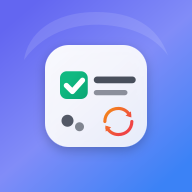
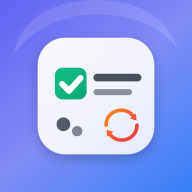
Updates

Changed region(s): [[0.1875, 0.1875, 0.8125, 0.8438], [0.2812, 0.5938, 0.4375, 0.7188]]

diff --git a/sw.js b/sw.js
@@ -1,1 +1,1 @@
-if(!self.define){let e,s={};const i=(i,n)=>(i=new URL(i+".js",n).href,s[i]||new Promise(s=>{if("document"in self){const e=document.createElement("script");e.src=i,e.onload=s,document.head.appendChild(e)}else e=i,importScripts(i),s()}).then(()=>{let e=s[i];if(!e)throw new Error(`Module ${i} didn’t register its module`);return e}));self.define=(n,r)=>{const c=e||("document"in self?document.currentScript.src:"")||location.href;if(s[c])return;let o={};const l=e=>i(e,c),a={module:{uri:c},exports:o,require:l};s[c]=Promise.all(n.map(e=>a[e]||l(e))).then(e=>(r(...e),o))}}define(["./workbox-7a79b53c"],function(e){"use strict";importScripts("/sw-custom.js"),self.skipWaiting(),e.clientsClaim(),e.precacheAndRoute([{url:"sw-custom.js",revision:"c27f6cc810250bb5c582c0267e3ca1bd"},{url:"registerSW.js",revision:"1872c500de691dce40960bb85481de07"},{url:"index.html",revision:"6e095ef1289768d650cae5fd4af76e5e"},{url:"icon.svg",revision:"604878bc41dc63db2944cc93656ae8b3"},{url:"icon-512.svg",revision:"604878bc41dc63db2944cc93656ae8b3"},{url:"icon-512.png",revision:"1708c47f33cce0c18729142e54aac744"},{url:"icon-192.svg",revision:"49081bbfc7e66f5dbdd0ab31d3d55c2f"},{url:"icon-192.png",revision:"fd24a0e5838227571e8a6b3b099d214d"},{url:"favicon.svg",revision:"e2850cac1b22e76745e684d2abdfedbd"},{url:"favicon.ico",revision:"49ac9f6e15999e26fc56103a8ba6c4f4"},{url:"assets/spaces-Dr5yf0Q9.js",revision:null},{url:"assets/materialdesignicons-webfont-Dp5v-WZN.woff2",revision:null},{url:"assets/index-Dr7tw_PP.css",revision:null},{url:"assets/index-D2XvMCja.js",revision:null},{url:"assets/SpaceSettingsView-awnOa9Vy.js",revision:null},{url:"assets/SpaceSettingsView-DHxyXu6S.css",revision:null},{url:"assets/SettingsViewNew-DLytROiE.js",revision:null},{url:"assets/SettingsViewNew-Cj4F3Bm_.css",revision:null},{url:"assets/RegisterView-CydeiSCL.js",revision:null},{url:"assets/LoginView-DGHKYVqh.js",revision:null},{url:"assets/HomeViewNew-DMuqcrYq.css",revision:null},{url:"assets/HomeViewNew-CpwsB-Oi.js",revision:null},{url:"assets/HistoryView-DwUC2mMG.js",revision:null},{url:"assets/HistoryView-BmwWLpZq.css",revision:null},{url:"assets/DashboardEnhanced-sc8wlgjz.js",revision:null},{url:"assets/DashboardEnhanced-DpdJx_fn.css",revision:null},{url:"favicon.ico",revision:"49ac9f6e15999e26fc56103a8ba6c4f4"},{url:"icon-192.svg",revision:"49081bbfc7e66f5dbdd0ab31d3d55c2f"},{url:"icon-512.svg",revision:"604878bc41dc63db2944cc93656ae8b3"},{url:"icon-192.png",revision:"fd24a0e5838227571e8a6b3b099d214d"},{url:"icon-512.png",revision:"1708c47f33cce0c18729142e54aac744"},{url:"manifest.webmanifest",revision:"c4bd127a61f516dc8b92a972de5fda15"}],{}),e.cleanupOutdatedCaches(),e.registerRoute(new e.NavigationRoute(e.createHandlerBoundToURL("index.html"))),e.registerRoute(/^https:\/\/tasks\.api\.michoest\.com\/api\//,new e.NetworkFirst({cacheName:"api-cache",plugins:[new e.ExpirationPlugin({maxEntries:50,maxAgeSeconds:300})]}),"GET")});
+if(!self.define){let e,s={};const i=(i,n)=>(i=new URL(i+".js",n).href,s[i]||new Promise(s=>{if("document"in self){const e=document.createElement("script");e.src=i,e.onload=s,document.head.appendChild(e)}else e=i,importScripts(i),s()}).then(()=>{let e=s[i];if(!e)throw new Error(`Module ${i} didn’t register its module`);return e}));self.define=(n,r)=>{const c=e||("document"in self?document.currentScript.src:"")||location.href;if(s[c])return;let o={};const l=e=>i(e,c),a={module:{uri:c},exports:o,require:l};s[c]=Promise.all(n.map(e=>a[e]||l(e))).then(e=>(r(...e),o))}}define(["./workbox-7a79b53c"],function(e){"use strict";importScripts("/sw-custom.js"),self.skipWaiting(),e.clientsClaim(),e.precacheAndRoute([{url:"sw-custom.js",revision:"c27f6cc810250bb5c582c0267e3ca1bd"},{url:"registerSW.js",revision:"1872c500de691dce40960bb85481de07"},{url:"index.html",revision:"6e095ef1289768d650cae5fd4af76e5e"},{url:"icon.svg",revision:"939337fa808daf1b8c9c28d17bbf788e"},{url:"icon-512.svg",revision:"939337fa808daf1b8c9c28d17bbf788e"},{url:"icon-512.png",revision:"9745c88ac3117eeffa02f4eeec29cee3"},{url:"icon-192.svg",revision:"bdba2bd0261222916987842baf45ba83"},{url:"icon-192.png",revision:"fed4e05b36cae020cb055c7481dd4189"},{url:"favicon.svg",revision:"e2850cac1b22e76745e684d2abdfedbd"},{url:"favicon.ico",revision:"49ac9f6e15999e26fc56103a8ba6c4f4"},{url:"assets/spaces-Dr5yf0Q9.js",revision:null},{url:"assets/materialdesignicons-webfont-Dp5v-WZN.woff2",revision:null},{url:"assets/index-Dr7tw_PP.css",revision:null},{url:"assets/index-D2XvMCja.js",revision:null},{url:"assets/SpaceSettingsView-awnOa9Vy.js",revision:null},{url:"assets/SpaceSettingsView-DHxyXu6S.css",revision:null},{url:"assets/SettingsViewNew-DLytROiE.js",revision:null},{url:"assets/SettingsViewNew-Cj4F3Bm_.css",revision:null},{url:"assets/RegisterView-CydeiSCL.js",revision:null},{url:"assets/LoginView-DGHKYVqh.js",revision:null},{url:"assets/HomeViewNew-DMuqcrYq.css",revision:null},{url:"assets/HomeViewNew-CpwsB-Oi.js",revision:null},{url:"assets/HistoryView-DwUC2mMG.js",revision:null},{url:"assets/HistoryView-BmwWLpZq.css",revision:null},{url:"assets/DashboardEnhanced-sc8wlgjz.js",revision:null},{url:"assets/DashboardEnhanced-DpdJx_fn.css",revision:null},{url:"favicon.ico",revision:"49ac9f6e15999e26fc56103a8ba6c4f4"},{url:"icon-192.svg",revision:"bdba2bd0261222916987842baf45ba83"},{url:"icon-512.svg",revision:"939337fa808daf1b8c9c28d17bbf788e"},{url:"icon-192.png",revision:"fed4e05b36cae020cb055c7481dd4189"},{url:"icon-512.png",revision:"9745c88ac3117eeffa02f4eeec29cee3"},{url:"manifest.webmanifest",revision:"c4bd127a61f516dc8b92a972de5fda15"}],{}),e.cleanupOutdatedCaches(),e.registerRoute(new e.NavigationRoute(e.createHandlerBoundToURL("index.html"))),e.registerRoute(/^https:\/\/tasks\.api\.michoest\.com\/api\//,new e.NetworkFirst({cacheName:"api-cache",plugins:[new e.ExpirationPlugin({maxEntries:50,maxAgeSeconds:300})]}),"GET")});
